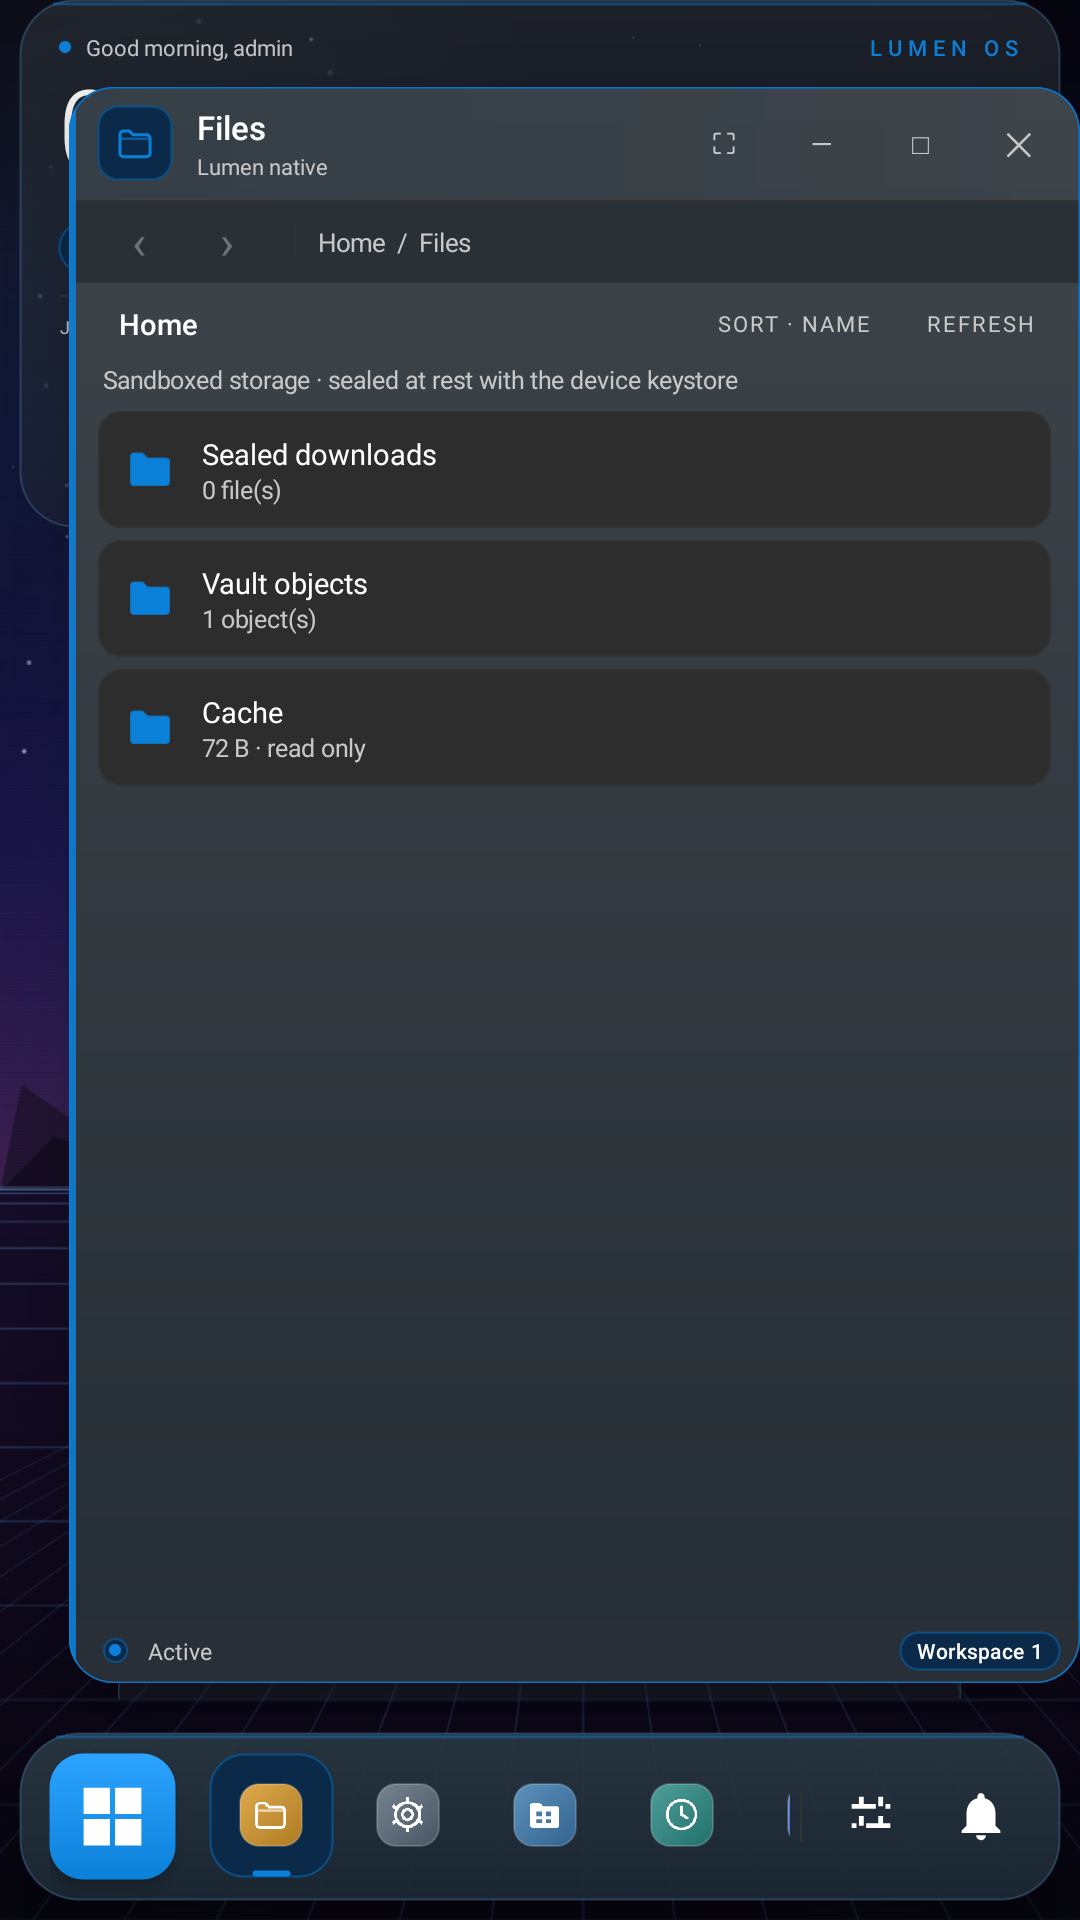
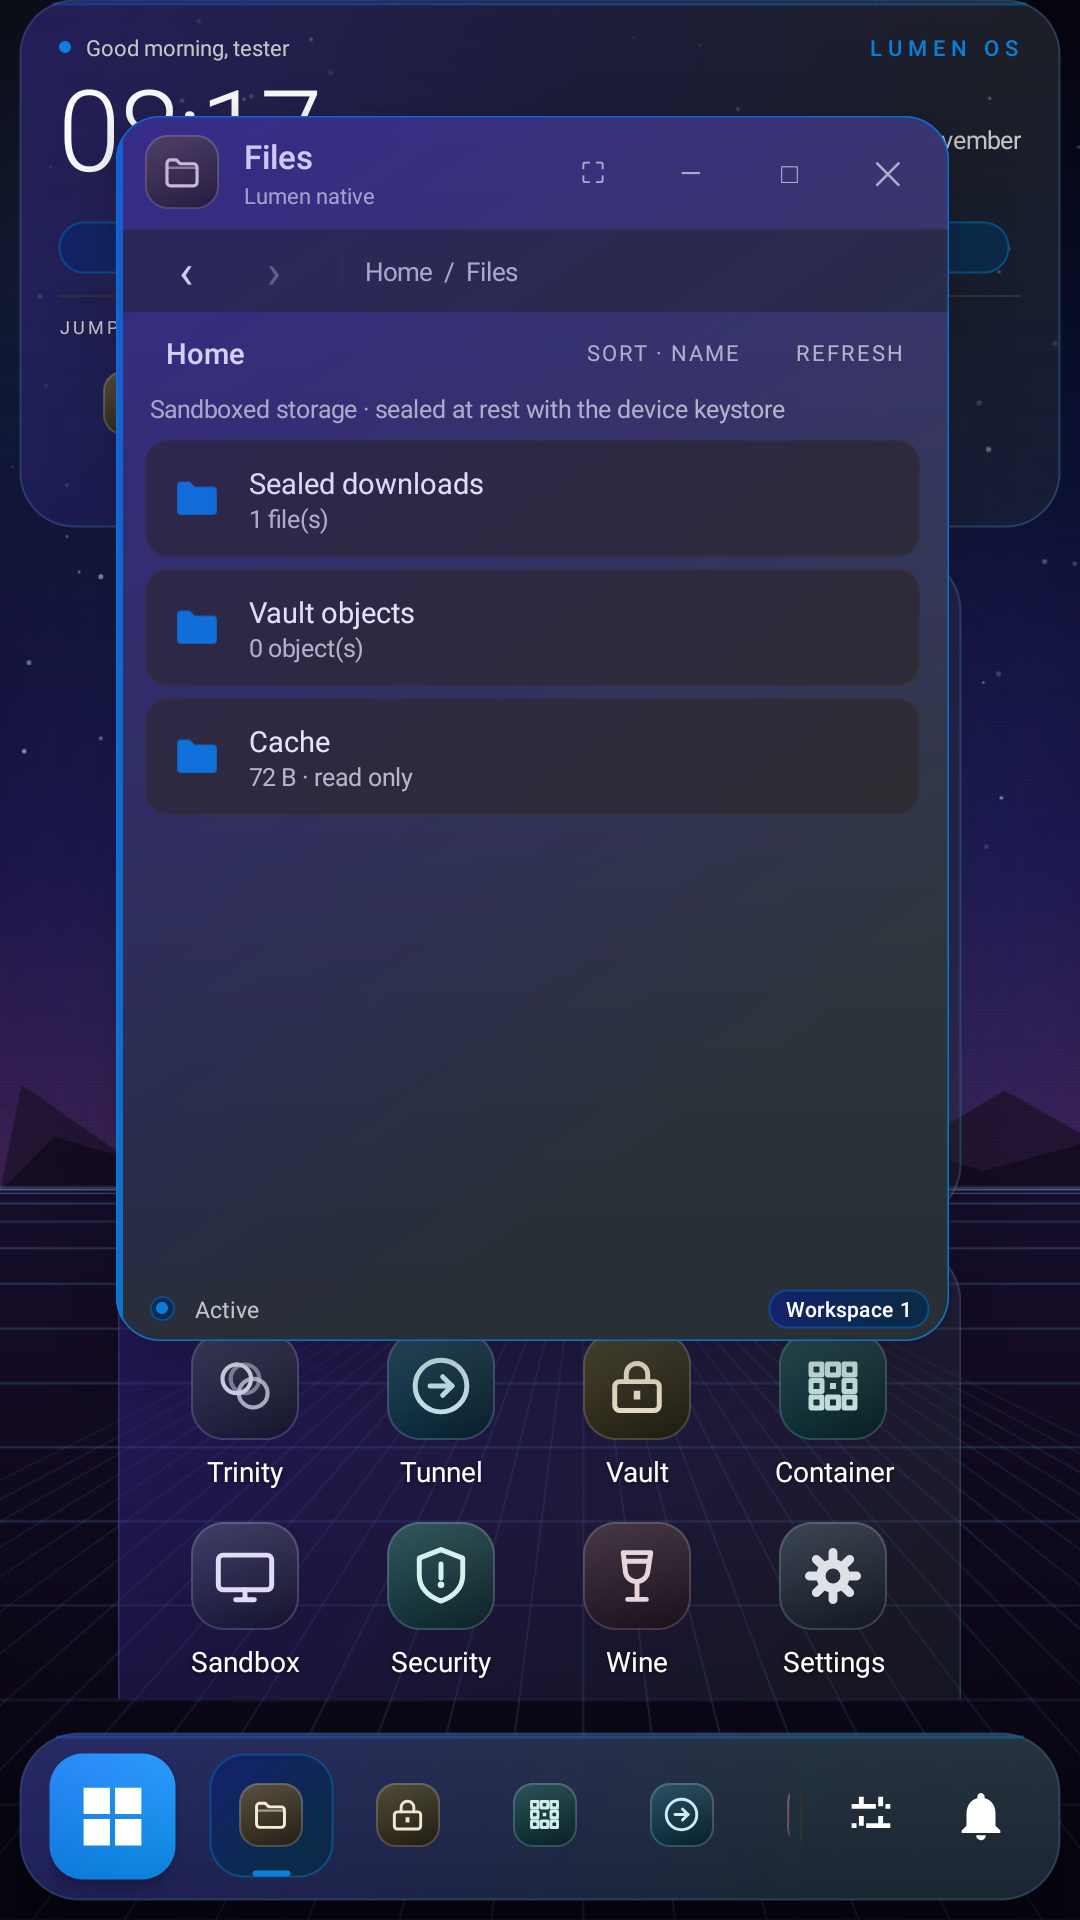
Refresh screenshots and release links for the 1.12.8 build

diff --git a/README.md b/README.md
@@ -3,9 +3,13 @@
 Signed release builds of **NestDroid**, an Android sandbox + encrypted tunnel with a Lumen OS
 desktop shell, an app container, an encrypted vault, a firewall and a strict no-log policy.
 
-**Latest: NestDroid 1.9.1** — [download the APK](nestdroid-1.9.1.apk) ·
-[release notes](https://github.com/Tripartitus/nestdroid-releases/releases/tag/v1.9.1) ·
[1 lines of base64/hex data omitted]
+**Latest published release: NestDroid 1.6.89** —
+[download the APK](https://github.com/Tripartitus/nestdroid-releases/releases/download/v1.6.89/nestdroid-1.6.89.apk) ·
+[release notes](https://github.com/Tripartitus/nestdroid-releases/releases/tag/v1.6.89) ·
[1 lines of base64/hex data omitted]
+
+The screenshots below are captured from the newer 1.12.8 build, which has not been published here
+yet; the download links above are the current public build.
 
 **This repository contains only release binaries and screenshots.** No source code, build scripts
 or mapping files are published here. Every download is a finished, signed APK.
@@ -27,9 +31,9 @@ or mapping files are published here. Every download is a finished, signed APK.
 
 ## Screenshots
 
-All screenshots are from the current 1.9.3 build, whose skylight widget is now the same
-accent-tinted glass as the launch deck and the dock: the wallpaper reads through it, and it
-carries the live accent bead, rim and telemetry pills.
+All screenshots were re-captured on the 1.12.8 build (API 28, 1080 × 1920, dark and light
+palettes): the lock screen, both desktops, Start and its ranked fuzzy search, the radial quick
+ring and quick settings, the rainbow accent, and every built-in app.
 
 ### Desktop and shell
 
@@ -68,7 +72,7 @@ together:
 
 ### Built-in apps
 
-Windows use the 1.9.3 caption bar: app mark, name and runtime, then full screen, minimize,
+Windows use the glass caption bar: app mark, name and runtime, then full screen, minimize,
 maximize and close, with the workspace pill on the status strip.
 
 | | |
@@ -104,22 +108,24 @@ maximize and close, with the workspace pill on the status strip.
 
 ## Download
 
-**NestDroid 1.9.1** is available in this repository and on the Releases page — both are the same
-signed build:
+**NestDroid 1.6.89** is the current published build: it is both the asset attached to the release
+and the copy committed in this repository, and the two are the same signed APK.
 
-- **In this repository:** [`nestdroid-1.9.1.apk`](nestdroid-1.9.1.apk)
-- **From Releases:** [`nestdroid-1.9.1.apk`](https://github.com/Tripartitus/nestdroid-releases/releases/download/v1.9.1/nestdroid-1.9.1.apk)
-- **Release page:** [NestDroid 1.9.1](https://github.com/Tripartitus/nestdroid-releases/releases/tag/v1.9.1)
+- **In this repository:** [`nestdroid-1.6.89.apk`](nestdroid-1.6.89.apk)
+- **From Releases:** [`nestdroid-1.6.89.apk`](https://github.com/Tripartitus/nestdroid-releases/releases/download/v1.6.89/nestdroid-1.6.89.apk)
+- **Release page:** [NestDroid 1.6.89](https://github.com/Tripartitus/nestdroid-releases/releases/tag/v1.6.89)
 
 | Version | APK | SHA-256 | Size |
 | --- | --- | --- | --- |
[2 lines of base64/hex data omitted]
+
+Newer builds (1.9.x and 1.12.x) exist in the project but have not been published as releases yet, so
+this page does not link them.
 
 Verify the download before installing:
 
 ```sh
-sha256sum nestdroid-1.9.1.apk
+sha256sum nestdroid-1.6.89.apk
 ```
 
 ## Install
